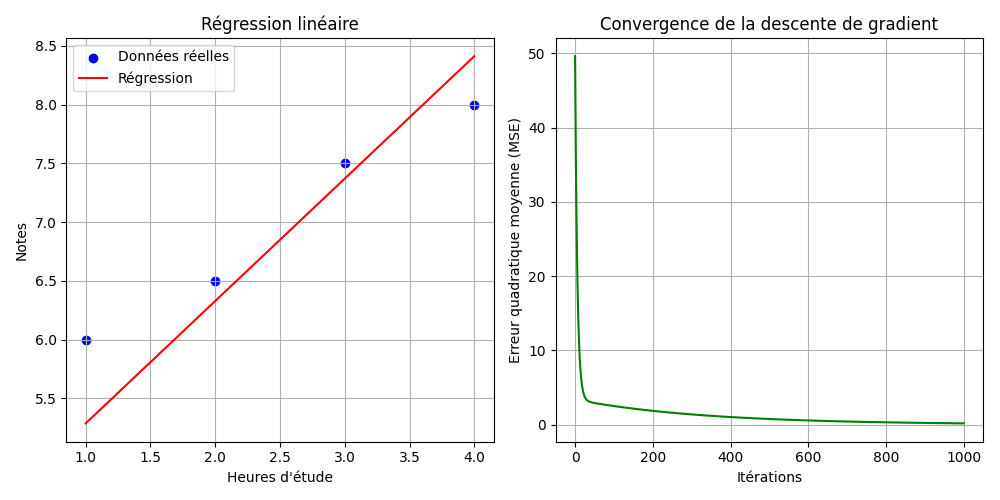
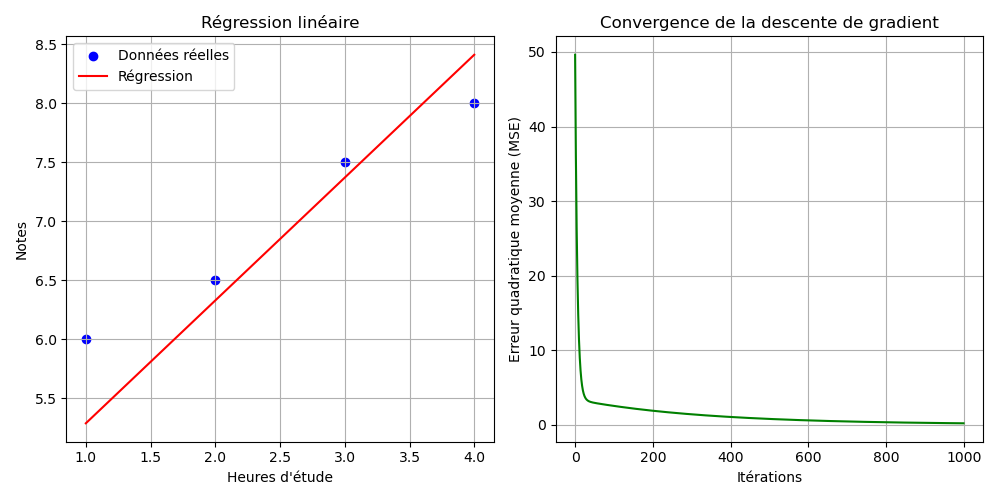
Ajout dossier devoir

diff --git a/method_decente_gradient/devoir/entrainement.py b/method_decente_gradient/devoir/entrainement.py
@@ -1,0 +1,115 @@
+# ================================ IMPORT =====================================
+import sys
+import json
+import pandas as pd                                 # type: ignore #ignore
+import matplotlib.pyplot as plt                     # type: ignore #ignore
+from logger import setup_logger, GREEN_B
+
+logger = setup_logger()
+
+# =============================== FONCTIONS ====================================
+def recup_data(file: str=""):
+
+    try:
+        data = pd.read_csv(file)
+        for col in data.columns:
+            data[col] = pd.to_numeric(data[col], errors='raise')
+
+        logger.info(f"Données du fichier '{file}' recupérer avec succès : \n{data.head()}")
+    except Exception as e:
+        logger.error(f"Lors de la récuperation des données : {e}")
+        return sys.exit(1)
+
+    return data
+
+
+#------------------------------------------------------------------------------
+def save_graph(data: pd.DataFrame) -> None:
+    """
+    Génère et enregistre un graphique en nuage de points (scatter plot)
+    illustrant la relation entre les heures d'étude et les notes obtenues.
+
+    Le graphique est sauvegardé sous le nom "relation_notes_heures.png".
+
+    Parameters
+    ----------
+    data : pandas.DataFrame
+        Un DataFrame contenant deux colonnes :
+        - "km" : les valeurs sur l'axe des X (km parcourues)
+        - "price"  : les valeurs sur l'axe des Y (prix obtenues)
+
+    Returns
+    -------
+    None
+
+    Raises
+    ------
+    KeyError
+        Si les colonnes "km" ou "price" sont absentes du DataFrame.
+
+    Examples
+    --------
+    >>> import pandas as pd
+    >>> df = pd.DataFrame({"km": [1, 2, 3], "price": [6, 6.5, 7.5]})
+    >>> save_graph(df)
+    # Enregistre le fichier 'relation_km_price.png'
+    """
+
+
+    try:
+        # [1]. Trace un graphique simple (nuage de points) :
+        plt.plot(
+            data["km"].values,
+            data["price"].values,
+            marker='o',
+            linestyle = ' ',
+            color='blue'
+        )
+        
+        # [2]. Titrage et labels :
+        plt.title("Évolution des prix en fonction des kilometres parcourues")
+        plt.xlabel("Kilomètres parcourus")
+        plt.ylabel("Prix du véhicule (€)")
+        plt.grid(True)
+        plt.xlim(0, data["km"].max() + 20_000)
+        plt.ylim(0, data["price"].max() + 2_000)
+
+        # [3].Sauvegarde le graphique :
+        file = "relation_km_price.png"
+        plt.savefig(file)
+        logger.info(f"Fichier '{file}' enregistrer avec succès !")
+
+    except Exception as e:
+        logger.error(f"Lors de la création du graphique : {e}")
+    return
+
+
+
+#------------------------------------------------------------------------------
+def mean_squarred_error(data):
+
+    cout = 0.0
+
+
+#------------------------------------------------------------------------------
+def main() -> int:
+    """
+
+    """
+
+    # [1]. Récupération des données :
+    data = recup_data("data.csv")
+
+    # [2]. Chargement et affichage des données + nuage de points :
+    save_graph(data)
+
+    # [3]. Calcul de la fonction de cout (Gestion erreur) :
+    mean_squarred_error(data)
+    return 0
+
+# =============================== PROGRAMME ===================================
+if __name__ == "__main__":
+    sys.exit(main())
+
+
+

diff --git a/method_decente_gradient/devoir/predict_prix.py b/method_decente_gradient/devoir/predict_prix.py
@@ -1,0 +1,64 @@
+# ================================ IMPORT =====================================
+import sys
+import json
+import pandas as pd                                 # type: ignore #ignore
+import matplotlib.pyplot as plt                     # type: ignore #ignore
+from logger import setup_logger, GREEN_B
+
+logger = setup_logger()
+
+# =============================== FONCTIONS ====================================
+def recup_km() -> float:
+
+    msg = "Donner un valeur kilometrique pour predire le prix de la voiture : "
+
+    while True:
+        try:
+            km  = float(input(msg))
+            return km
+        except KeyboardInterrupt as e:
+            logger.warning(f"\nInterruption volontaire du programme !")
+            sys.exit(0)
+        except Exception as e:
+            logger.warning(f"Lors de la recuperation du kilometrage : {e}")
+
+
+#------------------------------------------------------------------------------
+def recup_theta(file : str="") -> list[float]:
+
+    theta0 = theta1 = 0.0
+    try:
+        with open(file, "r") as f:
+            data  = json.load(f)
+            theta0 = float(data.get("theta0"))
+            theta1 = float(data.get("theta1"))
+        logger.info(f"- Theta0 = {theta0}\t- Theta1 = {theta1}")
+    except Exception as e:
+        logger.error(f"Erreur lors de la recuperation des valeurs Theta : {e}")
+        sys.exit(1)
+    
+    return theta0, theta1
+
+
+#------------------------------------------------------------------------------
+def main() -> int:
+    """
+
+    """
+
+    # [1]. Recuperer un kilometrage donnee :
+    km = recup_km()
+
+    # [2]. Recuperation des donnees theta-0 et theta-1 :
+    theta0, theta1 = recup_theta("theta.json")
+
+    # [3]. Application de la regression lineaire simple :
+    estimation_prix = theta0 + (theta1 * km)
+    print(f"{GREEN_B}Le prix estimé pour une voiture ayant {km}km est de : {estimation_prix:.2f}€")
+
+    return 0
+
+
+# =============================== PROGRAMME ===================================
+if __name__ == "__main__":
+    sys.exit(main())

diff --git a/method_decente_gradient/devoir/logger.py b/method_decente_gradient/devoir/logger.py
@@ -1,0 +1,45 @@
+import logging
+
+# ============================== CONSTANTES ===================================
+GREEN = "\033[32m"
+YELLOW = "\033[33m"
+RED = "\033[31m"
+
+GREEN_B = "\033[1;32m"   # vert gras
+YELLOW_B = "\033[1;33m"  # jaune gras
+RED_B = "\033[1;31m"     # rouge gras
+
+GREEN_I = "\033[3;32m"   # vert italique
+YELLOW_I = "\033[3;33m"  # jaune italique
+RED_I = "\033[3;31m"     # rouge italique
+
+RESET = "\033[0m"
+
+# ================================ CLASSE =====================================
+class ColorFormatter(logging.Formatter):
+    def format(self, record):
+        if record.levelno >= logging.ERROR:
+            self._style._fmt = f'{RED_B}[%(levelname)s]{RESET}{RED} %(message)s {RESET}{RED_I}(%(filename)s:%(lineno)d){RESET}'
+
+        elif record.levelno >= logging.WARNING:
+            self._style._fmt = f'{YELLOW_B}[%(levelname)s]{RESET}{YELLOW} %(message)s {RESET}{YELLOW_I}(%(filename)s:%(lineno)d){RESET}'
+
+        elif record.levelno >= logging.INFO:
+            self._style._fmt = f'{GREEN_B}[%(levelname)s]{RESET} %(message)s'
+            
+        else:
+            self._style._fmt = '[%(levelname)s] %(message)s'
+        return super().format(record)
+
+# ============================== FONCTIONS ====================================
+def setup_logger(level=logging.INFO):
+    handler = logging.StreamHandler()
+    formatter = ColorFormatter('[%(levelname)s] %(message)s (%(filename)s:%(lineno)d)')
+    handler.setFormatter(formatter)
+
+    logger = logging.getLogger()
+    logger.setLevel(level)
+    logger.handlers = []
+    logger.addHandler(handler)
+
+    return logger
